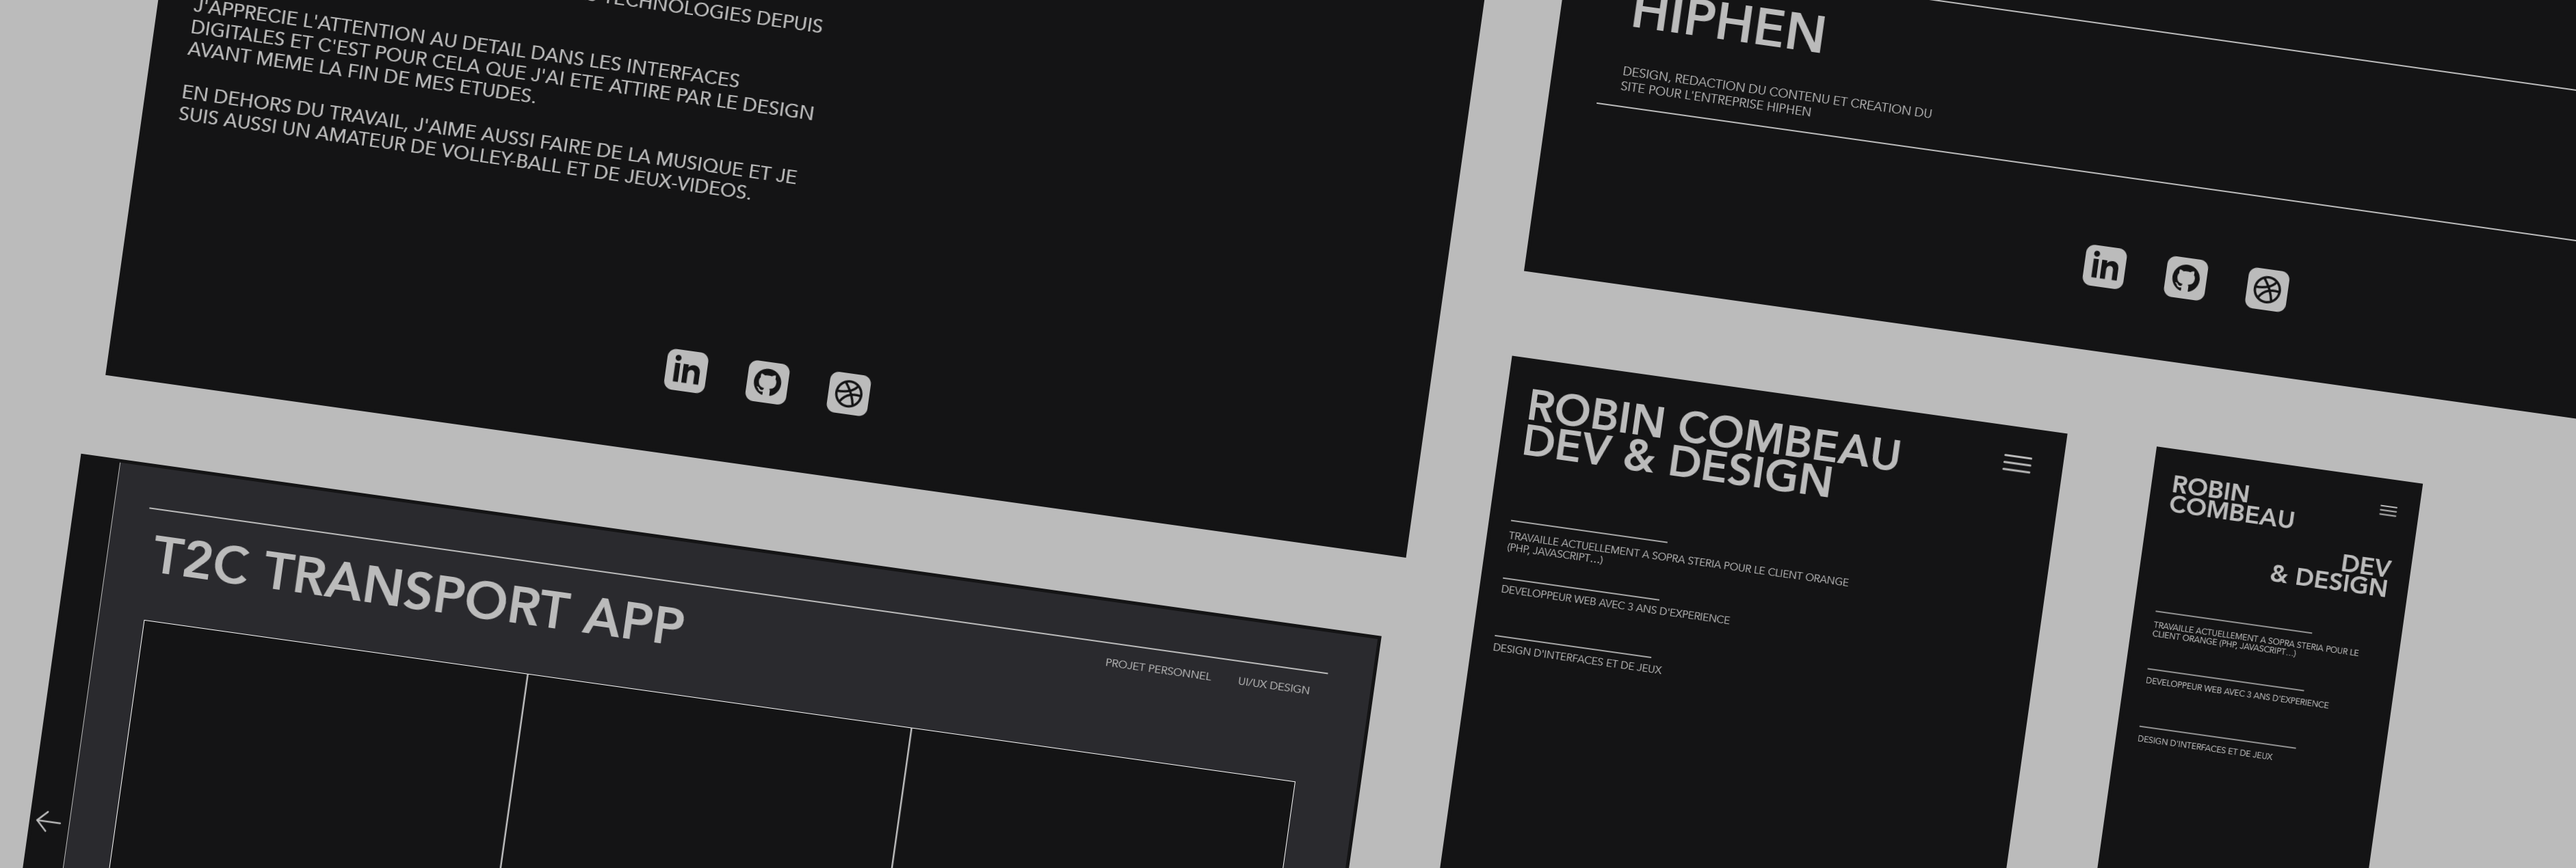
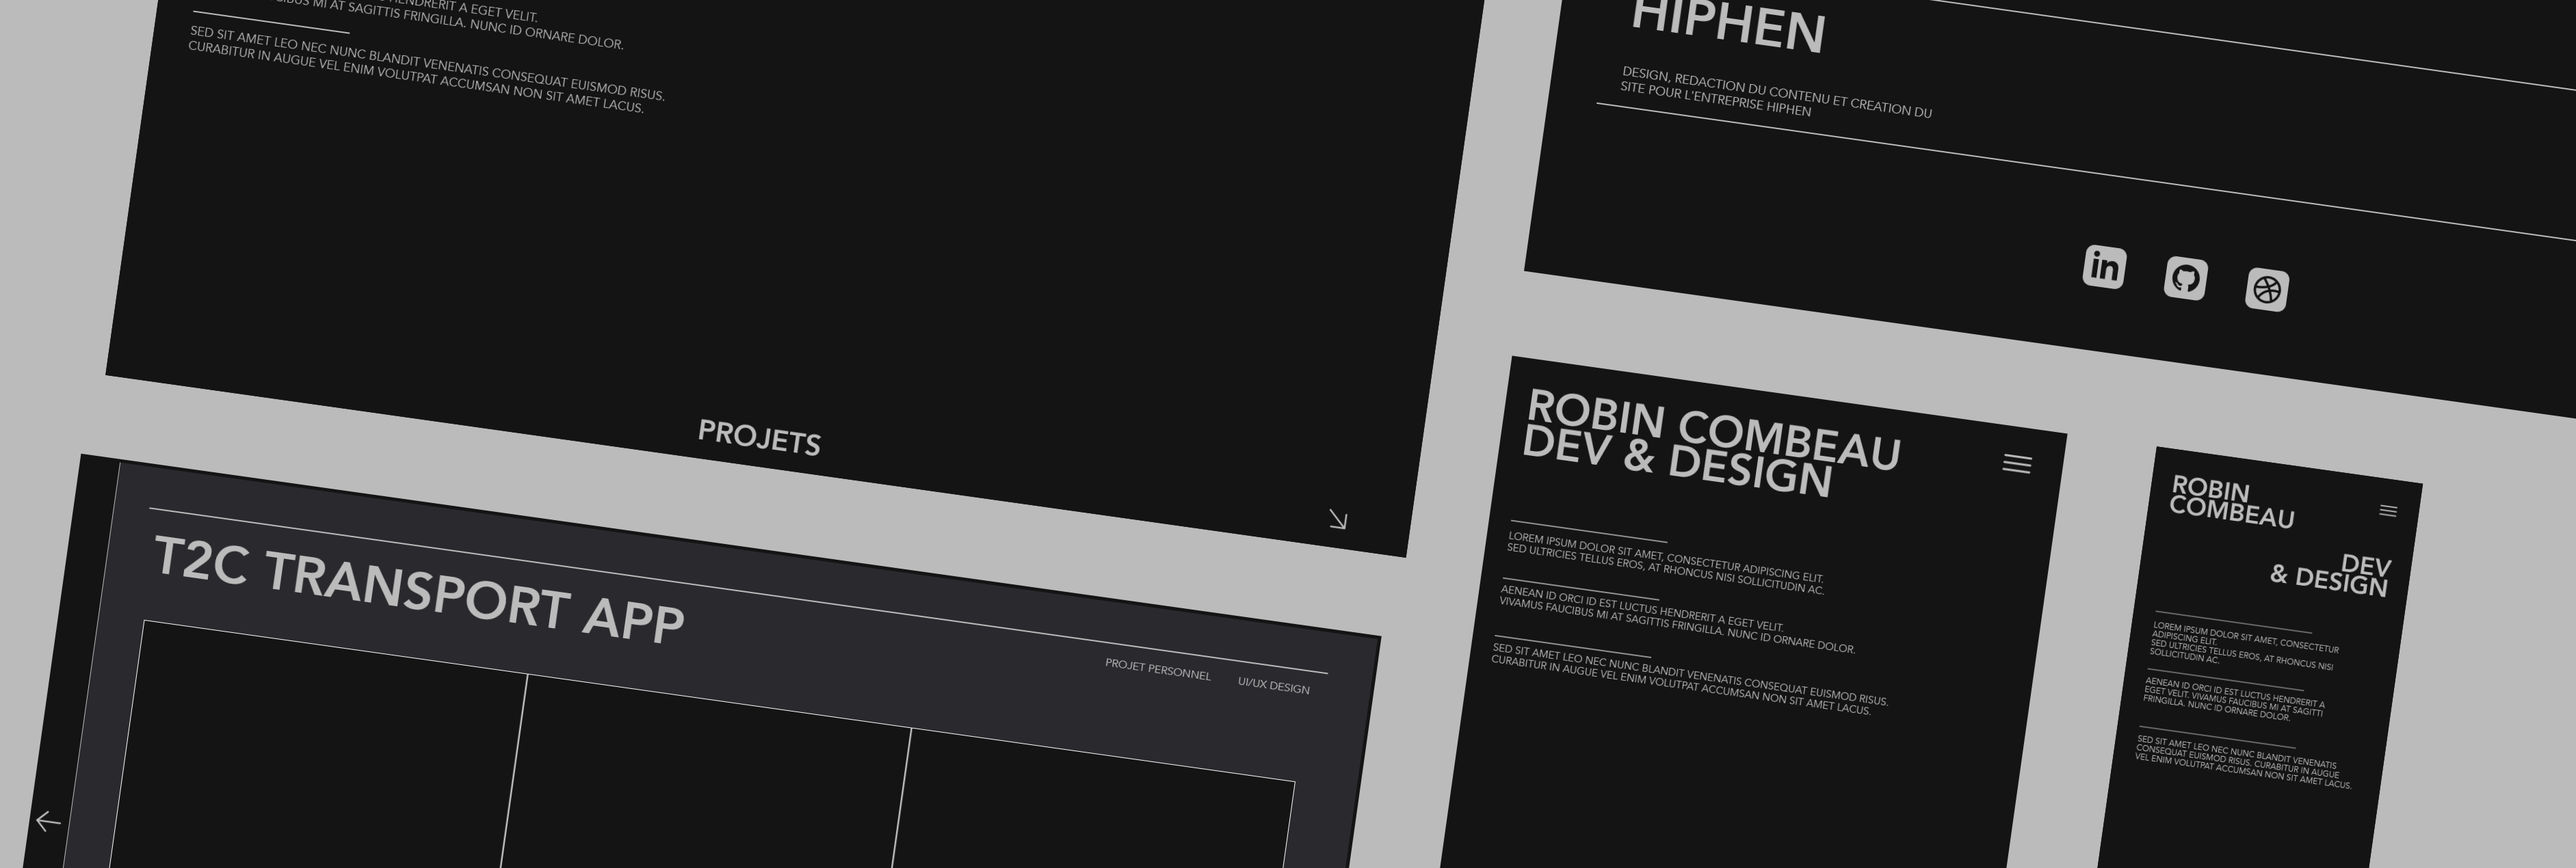
image on projects

diff --git a/public/index.html b/public/index.html
@@ -105,10 +105,16 @@
         <h2 class="project_page_title">T2C Transport App</h2>
         <div class="project_page_images">
             <!-- <img class="project_page_img_very_large" src="" /> -->
-            <img class="project_page_img project_page_img_large_1" src="" />
-            <img class="project_page_img project_page_img_large_2" src="" />
-            <img class="project_page_img project_page_img_medium_5" src="" />
-            <img class="project_page_img project_page_img_medium_6" src="" />
+            <!-- <img class="project_page_img project_page_img_large_1" src="" /> -->
+            <!-- <img class="project_page_img project_page_img_large_2" src="" /> -->
+            <div class="project_page_img project_page_img_very_large" style="background-image:url('/images/projects/t2c/presentation_shot.png'); background-color:#FFE6E7;" >
+            </div>
+            <div class="project_page_img project_page_img_medium_5" style="background-image:url('/images/projects/t2c/presentation_shot_first.png'); background-color:#B3B5B8;" >
+            </div>
+            <div class="project_page_img project_page_img_medium_6" style="background-image:url('/images/projects/t2c/palette.png'); background-color:#F5F8FC;">
+            </div>
+            <!-- <div class="project_page_img project_page_img_medium_5" src=""></div>
+            <div class="project_page_img project_page_img_medium_6" src=""></div> -->
             <!-- <img class="project_page_img_small" src="" /> -->
             <!-- <img class="project_page_img_small" src="" /> -->
         </div>
@@ -128,23 +134,23 @@
     <div id="project_page_2" class="project_page">
         <div class="project_page_go_back" onclick="go_back_to_index(2)"><img src="./images/icons/arrow-left.svg" /></div>
         <div class="project_page_separator"></div>
-        <div class="project_page_categories"><span>Cat 1</span><span>Cat 2</span><span>Cat 3</span>
+        <div class="project_page_categories"><span>Projet Personnel</span><span>UI Design</span><span>Etude UX</span>
         </div>
-        <h2 class="project_page_title">Projet 2</h2>
+        <h2 class="project_page_title">Portfolio</h2>
         <div class="project_page_images">
-            <!-- <img class="project_page_img_very_large" src="" /> -->
-            <img class="project_page_img project_page_img_large_1" src="" />
-            <img class="project_page_img project_page_img_large_2" src="" />
-            <img class="project_page_img project_page_img_medium_5" src="" />
-            <img class="project_page_img project_page_img_medium_6" src="" />
-            <!-- <img class="project_page_img_small" src="" /> -->
-            <!-- <img class="project_page_img_small" src="" /> -->
+            <div class="project_page_img project_page_img_full" style="background-image:url('/images/projects/portfolio/main_shot.png'); background-color:#BBBBBB;" >
+            </div>
         </div>
         <p class="project_page_description">
-            Texte
+            Nouveau design de mon portfolio dans le but de présenter mes différents projets.
+
+            Petit projet avec un design minimaliste aux couleurs sombres.
+
+            Développements réalisés en une vingtaine d'heures.
         </p>
         <p class="project_page_link">
-            Texte
+            Design réalisé avec Abode XD.
+            Développement en pure HTML, CSS et JS.
         </p>
     </div>
 

diff --git a/public/css/main.css b/public/css/main.css
@@ -244,7 +244,7 @@ menu a:hover{
     z-index:0;
     opacity:0;
     transition: opacity 0.5s;
-    /*background-size: 110%;*/
+    background-size: cover;
 }
 
 .project_background.fade {
@@ -362,6 +362,12 @@ menu a:hover{
     display: flex;
     align-items: center;
     justify-content: center;
+    transition:background-color 0.4s linear;
+}
+
+.project_page_go_back:hover{
+    background-color:#707070;
+    transition: background-color 0.4s linear;
 }
 
 .project_page_separator{
@@ -419,8 +425,12 @@ menu a:hover{
 }
 
 .project_page_img{
-    border: 2px solid #BBBBBB;
+    border: 2px solid #2A2A2E;
     background-color:#111111;
+    background-size: 100%;
+    background-position: center;
+    background-repeat:no-repeat;
+
 }
 
 .project_page_img_full{
